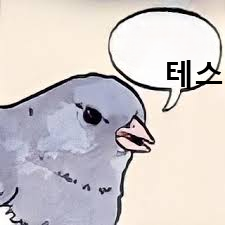
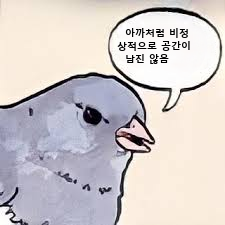
prototype에 줄바꿈패치

Changed region(s): [[0.5289, 0.1244, 0.9956, 0.4044]]

diff --git a/ovtorect.py b/ovtorect.py
@@ -1,35 +1,86 @@
 from math import sqrt
 import cv2
 import numpy as np
-import fontTools
+from PIL import Image, ImageGrab, ImageFont, ImageDraw
+import os
 
-h = 20
+def imageLoad(name):
+    imagename = name + ".png"
+    imagepath = os.path.join("images", imagename)
+    image = Image.open(imagepath)
+    return image
+
+textbox = 0
+baseimg = imageLoad("baseimg")
+mid = (164, 50)
 a, b = 55, 36
-rect = []
-n = int(2 * b / h)
+outputimg = baseimg.copy()
+draw = ImageDraw.Draw(outputimg)
+font_path = os.path.join("font", "malgunbd.ttf")
+text = input()
+text_size = 1
+font_size = 255
 
-if n % 2:
-    for i in range(0, n, 2):
-        y = i * h / 2
-        l = sqrt(1 - ((y + h/2) / b) ** 2) * a
-        rect.append((y, l))
-        if i == 1: continue
-        rect.append((-y, l))
-else:
-    for i in range(1, n, 2):
-        y = i * h / 2
-        l = sqrt(1 - ((y + h/2) / b) ** 2) * a
-        rect.append((y, l))
-        rect.append((-y, l))
+while textbox < text_size * 1.33:
+    font = ImageFont.truetype(font_path, font_size / 1.33)
+    bbox = draw.textbbox((0, 0), text, font=font)
+    text_size = 1.33 * (bbox[2] - bbox[0])
+    rect = []
+    n = int(2 * b / font_size)
+    if n % 2:
+        for i in range(0, n, 2):
+            y = i * font_size / 2
+            l = sqrt(1 - ((y + font_size/2) / b) ** 2) * a - font_size/2
+            y, l = int(y), int(l)
+            if l >= 2 * font_size:
+                rect.append((y, l))
+                if y == 0: continue
+                rect.append((-y, l))
+    else:
+        for i in range(1, n, 2):
+            y = i * font_size / 2
+            l = sqrt(1 - ((y + font_size/2) / b) ** 2) * a - font_size/2
+            y, l = int(y), int(l)
+            if l >= 2 * font_size:
+                rect.append((y, l))
+                if y == 0: continue
+                rect.append((-y, l))
+    textbox = 2 * sum(yl[1] for yl in rect)
+    font_size -= 1
 
+rect = sorted(rect, key=lambda x: x[0])
 print(rect)
+
+for y, l in rect:
+    position = (mid[0] - l, mid[1] + y - font_size)
+    bbox = draw.textbbox((0, 0), text, font=font)
+    text_size = (bbox[2] - bbox[0])
+    prt = len(text)
+    while text_size > 2 * l:
+        bbox = draw.textbbox((0, 0), text[:prt], font=font)
+        text_size = (bbox[2] - bbox[0])
+        prt -= 1
+    print(prt)
+    draw.text(position, text[:prt], fill="black", font=font)
+    text = text[prt:]
+
+output_path = os.path.join("images", 'output_image.png')
+outputimg.save(output_path)
+'''
+position = (164, 50)
+draw.text(position, text, fill="black", font=font)
+
+output_path = os.path.join("images", 'output_image.png')
+outputimg.save(output_path)
+'''
+
+
 
 img = np.zeros((225, 225, 3))
 
 for y, l in rect:
-    y, l = int(y), int(l)
     print(y, l)
-    cv2.rectangle(img, (164 - l, y + 50 + h//2), (164 + l, y + 50 - h//2), (0, 0, 255), 1)
+    cv2.rectangle(img, (164 - l, y + 50 + font_size//2), (164 + l, y + 50 - font_size//2), (0, 0, 255), 1)
 cv2.ellipse(img, (164, 50), (a, b), 0, 0, 360, (0, 0, 255), 1)
 cv2.imshow('image', img)
 cv2.waitKey(0)

diff --git a/prototype.py b/prototype.py
@@ -12,6 +12,7 @@ import os
 import threading
 import tkinter as tk
 from tkinter import ttk
+from math import *
 
 def enum_child(parent_hwnd):
     child_windows = []
@@ -52,15 +53,60 @@ def imageLoad(name):
     return image
 
 def makeimg(input):
+    textbox = 0
     baseimg = imageLoad("baseimg")
+    mid = (164, 50)
+    a, b = 55, 36
     outputimg = baseimg.copy()
     draw = ImageDraw.Draw(outputimg)
     font_path = os.path.join("font", "malgunbd.ttf")
     text = input
-    font_size = 30   
-    font = ImageFont.truetype(font_path, font_size)
-    position = (164, 50)
-    draw.text(position, text, fill="black", font=font)
+    text_size = 1
+    font_size = 255
+
+    while textbox < text_size:
+        font = ImageFont.truetype(font_path, font_size / 1.33)
+        bbox = draw.textbbox((0, 0), text, font=font)
+        text_size = 1.33 * (bbox[2] - bbox[0])
+        rect = []
+        n = int(2 * b / font_size)
+        if n % 2:
+            for i in range(0, n, 2):
+                y = i * font_size / 2
+                l = sqrt(1 - ((y + font_size/2) / b) ** 2) * a - font_size/2
+                y, l = int(y), int(l)
+                if l >= 2 * font_size:
+                    rect.append((y, l))
+                    if y == 0: continue
+                    rect.append((-y, l))
+        else:
+            for i in range(1, n, 2):
+                y = i * font_size / 2
+                l = sqrt(1 - ((y + font_size/2) / b) ** 2) * a - font_size/2
+                y, l = int(y), int(l)
+                if l >= 2 * font_size:
+                    rect.append((y, l))
+                    if y == 0: continue
+                    rect.append((-y, l))
+        textbox = 2 * sum(yl[1] for yl in rect)
+        font_size -= 1
+
+    rect = sorted(rect, key=lambda x: x[0])
+    print(rect)
+
+    for y, l in rect:
+        position = (mid[0] - l, mid[1] + y - font_size)
+        bbox = draw.textbbox((0, 0), text, font=font)
+        text_size = (bbox[2] - bbox[0])
+        prt = len(text)
+        while text_size > 2 * l:
+            bbox = draw.textbbox((0, 0), text[:prt], font=font)
+            text_size = (bbox[2] - bbox[0])
+            prt -= 1
+        print(prt)
+        draw.text(position, text[:prt], fill="black", font=font)
+        text = text[prt:]
+
     output_path = os.path.join("images", 'output_image.png')
     outputimg.save(output_path)
 

diff --git a/checkfont.py b/checkfont.py
@@ -1,0 +1,25 @@
+from PIL import ImageFont, ImageDraw, Image
+import os
+
+def get_text_size(text, font_path, font_size):
+    # 폰트 로드
+    font = ImageFont.truetype(font_path, font_size)
+    
+    # 임시 이미지 생성
+    image = Image.new('RGB', (1, 1))
+    draw = ImageDraw.Draw(image)
+    
+    # 텍스트 크기 계산
+    bbox = draw.textbbox((0, 0), text, font=font)
+    text_width = bbox[2] - bbox[0]
+    text_height = bbox[3] - bbox[1]
+    
+    return (text_width, text_height)
+
+# 예시 사용
+font_path = os.path.join("font", "malgunbd.ttf")
+font_size = 20
+text = ""
+
+text_size = get_text_size(text, font_path, font_size)
+print(f"Text size (width, height): {text_size}")
